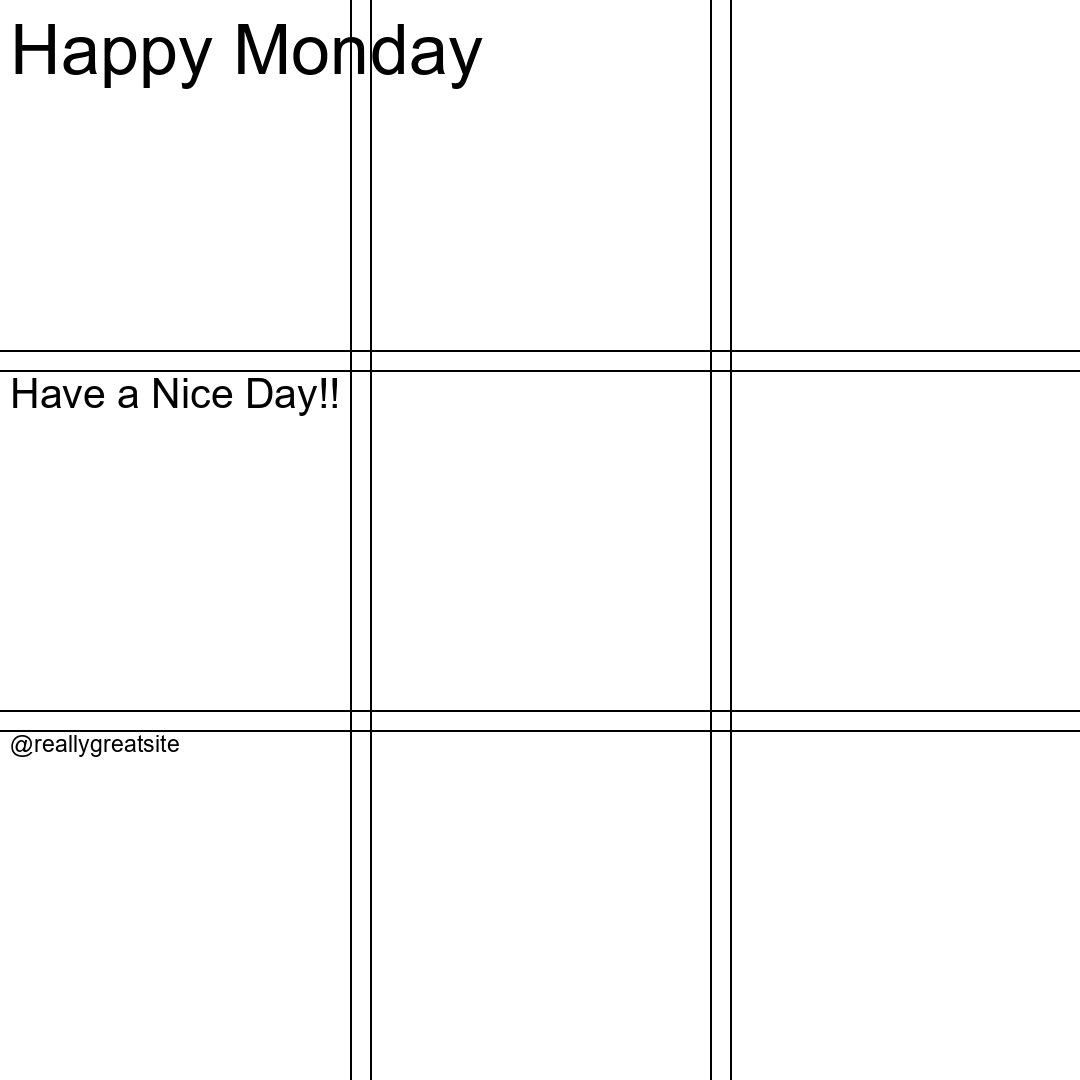
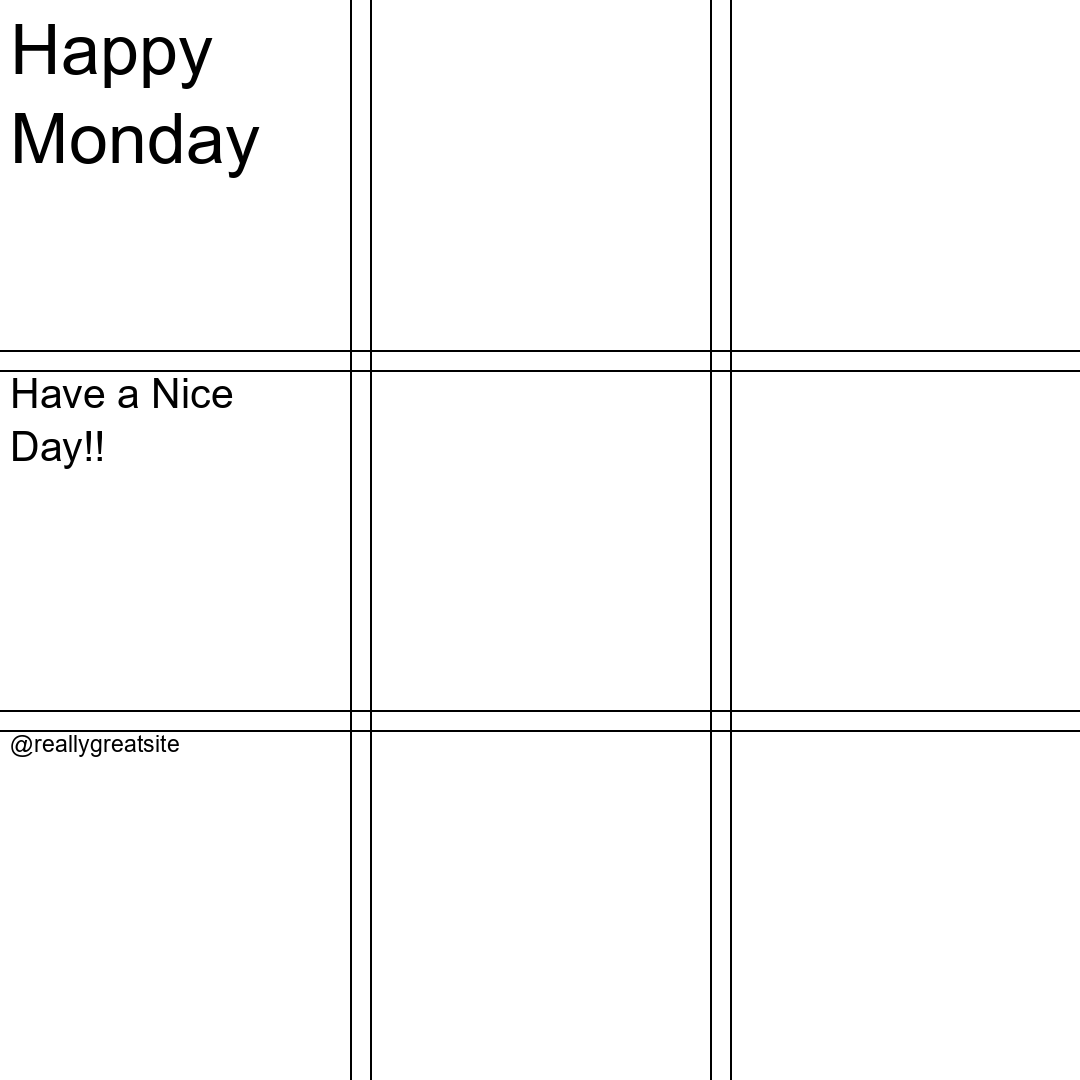
multiline support

diff --git a/step4.py b/step4.py
@@ -12,7 +12,72 @@ with open('config.json', 'r') as f:
 
 prominence_ranges = [0.75,0.5,0.3,0.2,0.15,0.1]
 font_sizes = [1,0.6,0.35,0.2,0.15]
+spacing = [40,25,15,9,6]
 font_factor = 48.0
+
+from PIL import Image, ImageDraw
+
+class TextWrapper(object):
+    """ Helper class to wrap text in lines, based on given text, font
+        and max allowed line width.
+    """
+
+    def __init__(self, text, font, max_width):
+        self.text = text
+        self.text_lines = [
+            ' '.join([w.strip() for w in l.split(' ') if w])
+            for l in text.split('\n')
+            if l
+        ]
+        self.font = font
+        self.max_width = max_width
+
+        self.draw = ImageDraw.Draw(
+            Image.new(
+                mode='RGB',
+                size=(100, 100)
+            )
+        )
+
+        self.space_width = self.draw.textlength(
+            text=' ',
+            font=self.font
+        )
+
+    def get_text_width(self, text):
+        return self.draw.textlength(
+            text=text,
+            font=self.font
+        )
+
+    def wrapped_text(self):
+        wrapped_lines = []
+        buf = []
+        buf_width = 0
+
+        for line in self.text_lines:
+            for word in line.split(' '):
+                word_width = self.get_text_width(word)
+
+                expected_width = word_width if not buf else \
+                    buf_width + self.space_width + word_width
+
+                if expected_width <= self.max_width:
+                    # word fits in line
+                    buf_width = expected_width
+                    buf.append(word)
+                else:
+                    # word doesn't fit in line
+                    wrapped_lines.append(' '.join(buf))
+                    buf = [word]
+                    buf_width = word_width
+
+            if buf:
+                wrapped_lines.append(' '.join(buf))
+                buf = []
+                buf_width = 0
+
+        return '\n'.join(wrapped_lines)
 
 def update_font_factor(font, text, priority, canvas_width, canvas_height):
     global font_sizes, font_factor, prominence_ranges
@@ -63,7 +128,11 @@ def draw(width, height, elements, font):
         text_position = (col * col_spacing + half_gutter_spacing, row * row_spacing + half_gutter_spacing)
         priority = elements[i]['prominence']
         ft = font.font_variant(size=font_sizes[priority-1] * font_factor)
-        draw.text(text_position, text, fill="black", font=ft)    
+        # to test multiline support remove the comment in the following line 
+        max_width = prominence_ranges[priority-1] * width # * 0.8
+        wrapper = TextWrapper(text, ft, max_width)
+        wrapped_text = wrapper.wrapped_text()
+        draw.multiline_text(text_position, wrapped_text, spacing=spacing[priority-1], fill="black", font=ft)    
     return image
 
 
